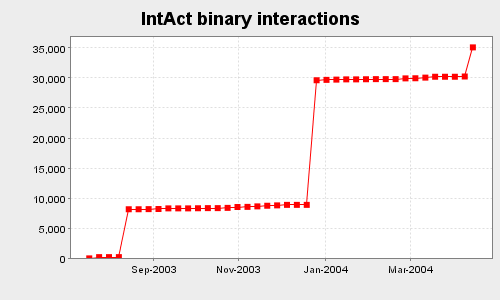
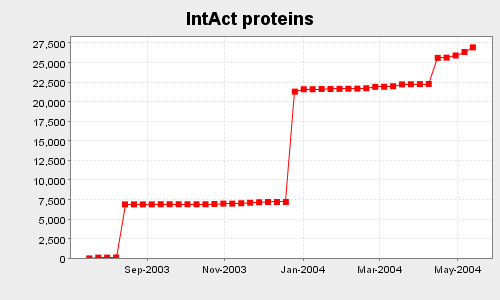
June 2004 release

diff --git a/trunk/intactCore/application/intact/doc/misc/statistics/index.html b/trunk/intactCore/application/intact/doc/misc/statistics/index.html
@@ -55,7 +55,7 @@
                   <td valign="top" width="10"><br>
                   </td>
                   <td valign="top"> <font size="-1"><a
- href="http://www.ebi.ac.uk/intact"> IntAct home </a> </font> </td>
+ href="http://www.ebi.ac.uk/intact/"> IntAct home </a> </font> </td>
                 </tr>
               </tbody>
             </table>
@@ -94,7 +94,7 @@
         This is the Database from which we extracted the data.
         Database: d002
 -->
-IntAct database contents as of <b>29 Apr 2004</b>. <br>
+IntAct database contents as of <b>1st June 2004</b>. <br>
                   </td>
                 </tr>
                 <tr>
@@ -111,7 +111,7 @@ IntAct database contents as of <b>29 Apr 2004</b>. <br>
                         <td class="tableCellAlignRight" align="left"
  valign="top" width="22%">Proteins</td>
                         <td class="tableCellAlignRight" align="left"
- valign="top" width="8%">25631</td>
+ valign="top" width="8%">26930</td>
                         <td class="tableCell" align="left" valign="top"
  width="70%">Number of proteins in the database</td>
                       </tr>
@@ -119,7 +119,7 @@ IntAct database contents as of <b>29 Apr 2004</b>. <br>
                         <td class="tableCellAlignRight" align="left"
  valign="top" width="22%">Interactions</td>
                         <td class="tableCellAlignRight" align="left"
- valign="top" width="8%">27880</td>
+ valign="top" width="8%">29886</td>
                         <td class="tableCell" align="left" valign="top"
  width="70%">Number of binary interactions and complexes</td>
                       </tr>
@@ -127,7 +127,7 @@ IntAct database contents as of <b>29 Apr 2004</b>. <br>
                         <td class="tableCellAlignRight" align="left"
  valign="top" width="22%">Binary interactions</td>
                         <td class="tableCellAlignRight" align="left"
- valign="top" width="8%">35068</td>
+ valign="top" width="8%">37431</td>
                         <td class="tableCell" align="left" valign="top"
  width="70%">Number of binary interactions, n-ary interactions expanded
 according to the "spoke" model</td>
@@ -136,7 +136,7 @@ according to the "spoke" model</td>
                         <td class="tableCellAlignRight" align="left"
  valign="top" width="22%">Experiments</td>
                         <td class="tableCellAlignRight" align="left"
- valign="top" width="8%">457</td>
+ valign="top" width="8%">510</td>
                         <td class="tableCell" align="left" valign="top"
  width="70%">Distinct experiments</td>
                       </tr>
@@ -144,7 +144,7 @@ according to the "spoke" model</td>
                         <td class="tableCellAlignRight" align="left"
  valign="top" width="22%">Terms</td>
                         <td class="tableCellAlignRight" align="left"
- valign="top" width="8%">219</td>
+ valign="top" width="8%">236</td>
                         <td class="tableCell" align="left" valign="top"
  width="70%">Controlled vocabulary terms</td>
                       </tr>
@@ -165,38 +165,38 @@ according to the "spoke" model</td>
                     <tbody>
                       <tr>
                         <td height="0" valign="top"> <map
- name="jfreechart-27092.png">
-                        </map>
-                        <img src="index_files/DisplayChart_005.png"
- usemap="#jfreechart-27092.png" border="0" height="300" width="500"> </td>
-                      </tr>
-                      <tr>
-                        <td height="0" valign="top"> <map
- name="jfreechart-27093.png">
-                        </map>
-                        <img src="index_files/DisplayChart_002.png"
- usemap="#jfreechart-27093.png" border="0" height="300" width="500"> </td>
-                      </tr>
-                      <tr>
-                        <td height="0" valign="top"> <map
- name="jfreechart-27094.png">
-                        </map>
-                        <img src="index_files/DisplayChart_003.png"
- usemap="#jfreechart-27094.png" border="0" height="300" width="500"> </td>
-                      </tr>
-                      <tr>
-                        <td height="0" valign="top"> <map
- name="jfreechart-27095.png">
+ name="jfreechart-41328.png">
                         </map>
                         <img src="index_files/DisplayChart.png"
- usemap="#jfreechart-27095.png" border="0" height="300" width="500"> </td>
+ usemap="#jfreechart-41328.png" border="0" height="300" width="500"> </td>
                       </tr>
                       <tr>
                         <td height="0" valign="top"> <map
- name="jfreechart-27096.png">
+ name="jfreechart-41329.png">
+                        </map>
+                        <img src="index_files/DisplayChart_003.png"
+ usemap="#jfreechart-41329.png" border="0" height="300" width="500"> </td>
+                      </tr>
+                      <tr>
+                        <td height="0" valign="top"> <map
+ name="jfreechart-41330.png">
                         </map>
                         <img src="index_files/DisplayChart_004.png"
- usemap="#jfreechart-27096.png" border="0" height="300" width="500"> </td>
+ usemap="#jfreechart-41330.png" border="0" height="300" width="500"> </td>
+                      </tr>
+                      <tr>
+                        <td height="0" valign="top"> <map
+ name="jfreechart-41331.png">
+                        </map>
+                        <img src="index_files/DisplayChart_002.png"
+ usemap="#jfreechart-41331.png" border="0" height="300" width="500"> </td>
+                      </tr>
+                      <tr>
+                        <td height="0" valign="top"> <map
+ name="jfreechart-41332.png">
+                        </map>
+                        <img src="index_files/DisplayChart_005.png"
+ usemap="#jfreechart-41332.png" border="0" height="300" width="500"> </td>
                       </tr>
                     </tbody>
                   </table>
@@ -220,7 +220,7 @@ according to the "spoke" model</td>
                 <tr>
                   <td> Please send any questions or suggestions to <a
  href="mailto:intact-help@ebi.ac.uk">intact-help@ebi.ac.uk</a> <br>
-Last modified: <i>29-April-2004 04:12 PM by Samuel</i> </td>
+Last modified: <i>1-June-2004 09:00 AM by Samuel</i> </td>
                   <td class="tableCell"> <img
  src="index_files/struts-power.gif" align="right" border="0"> </td>
                 </tr>
